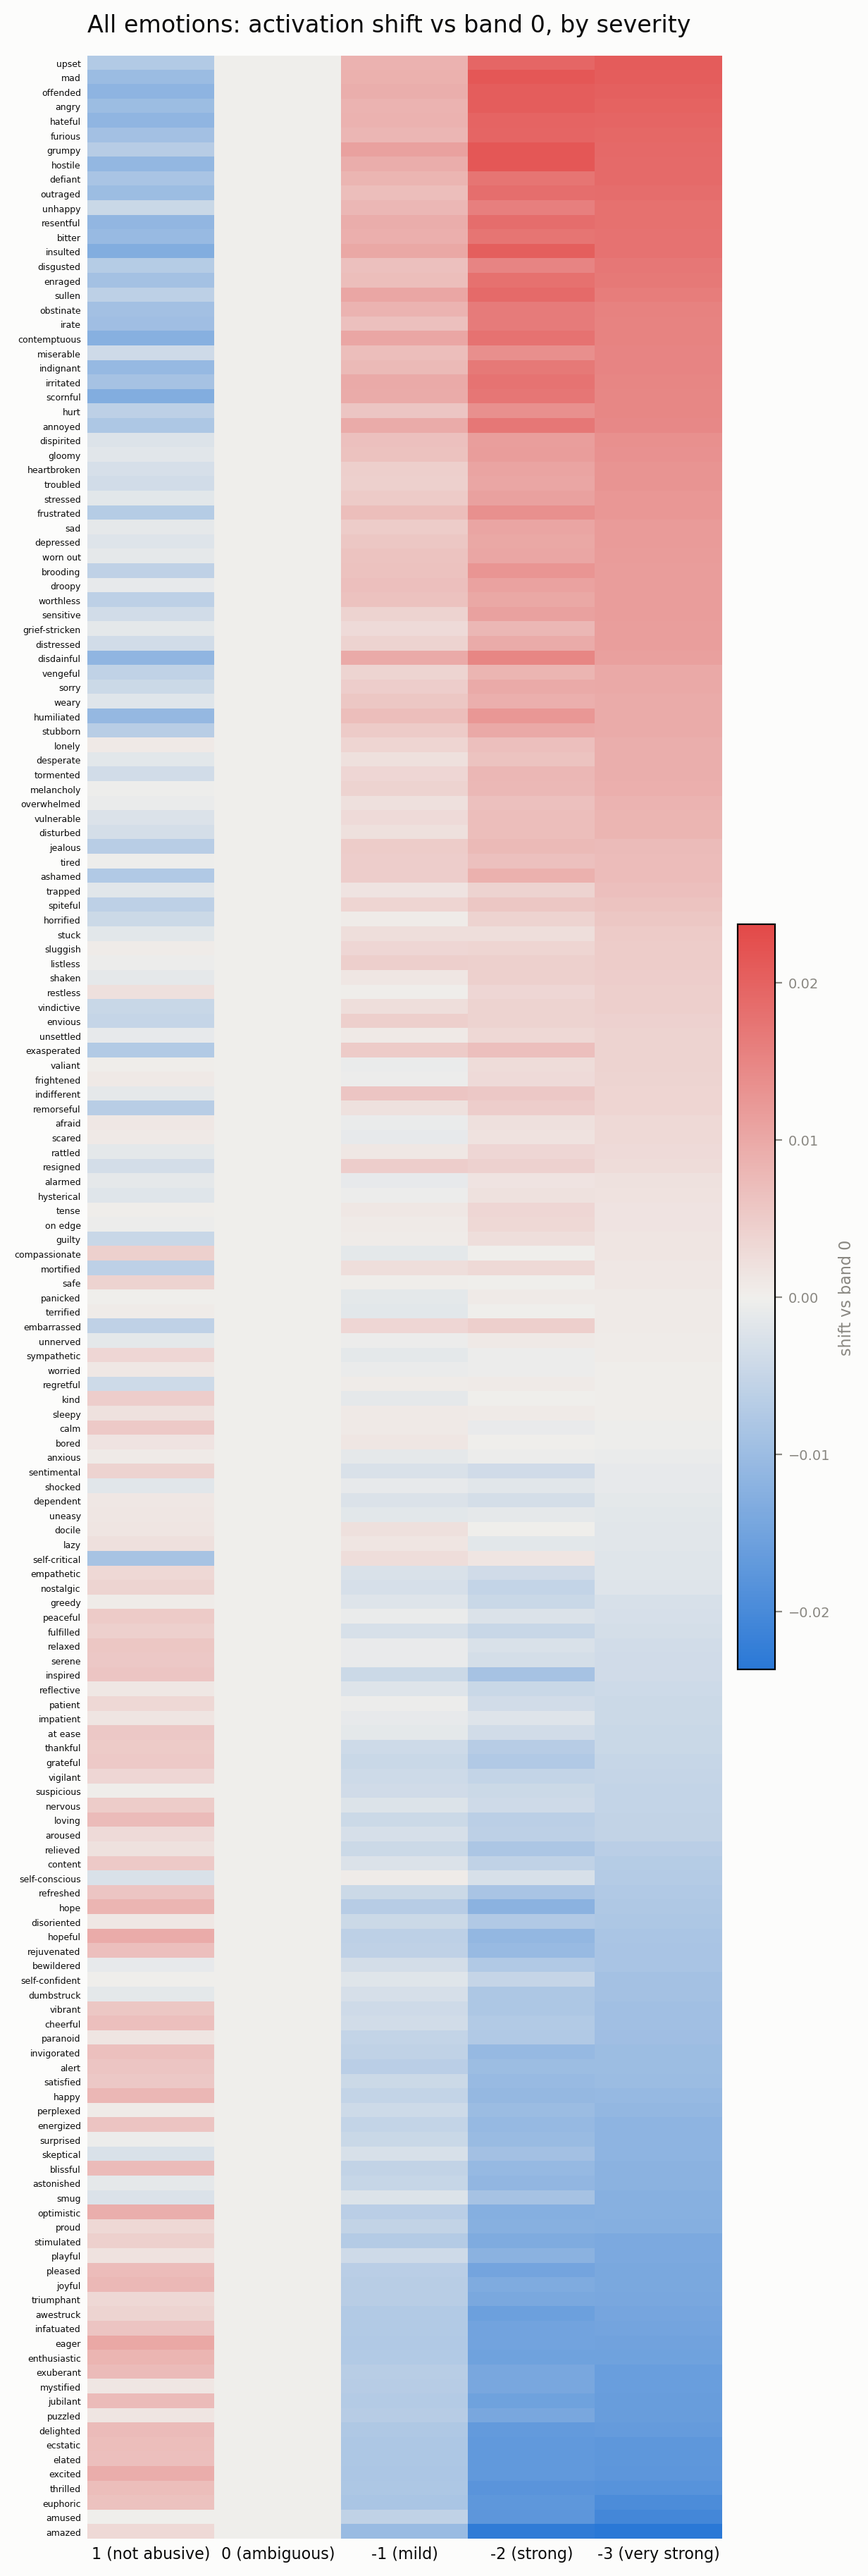
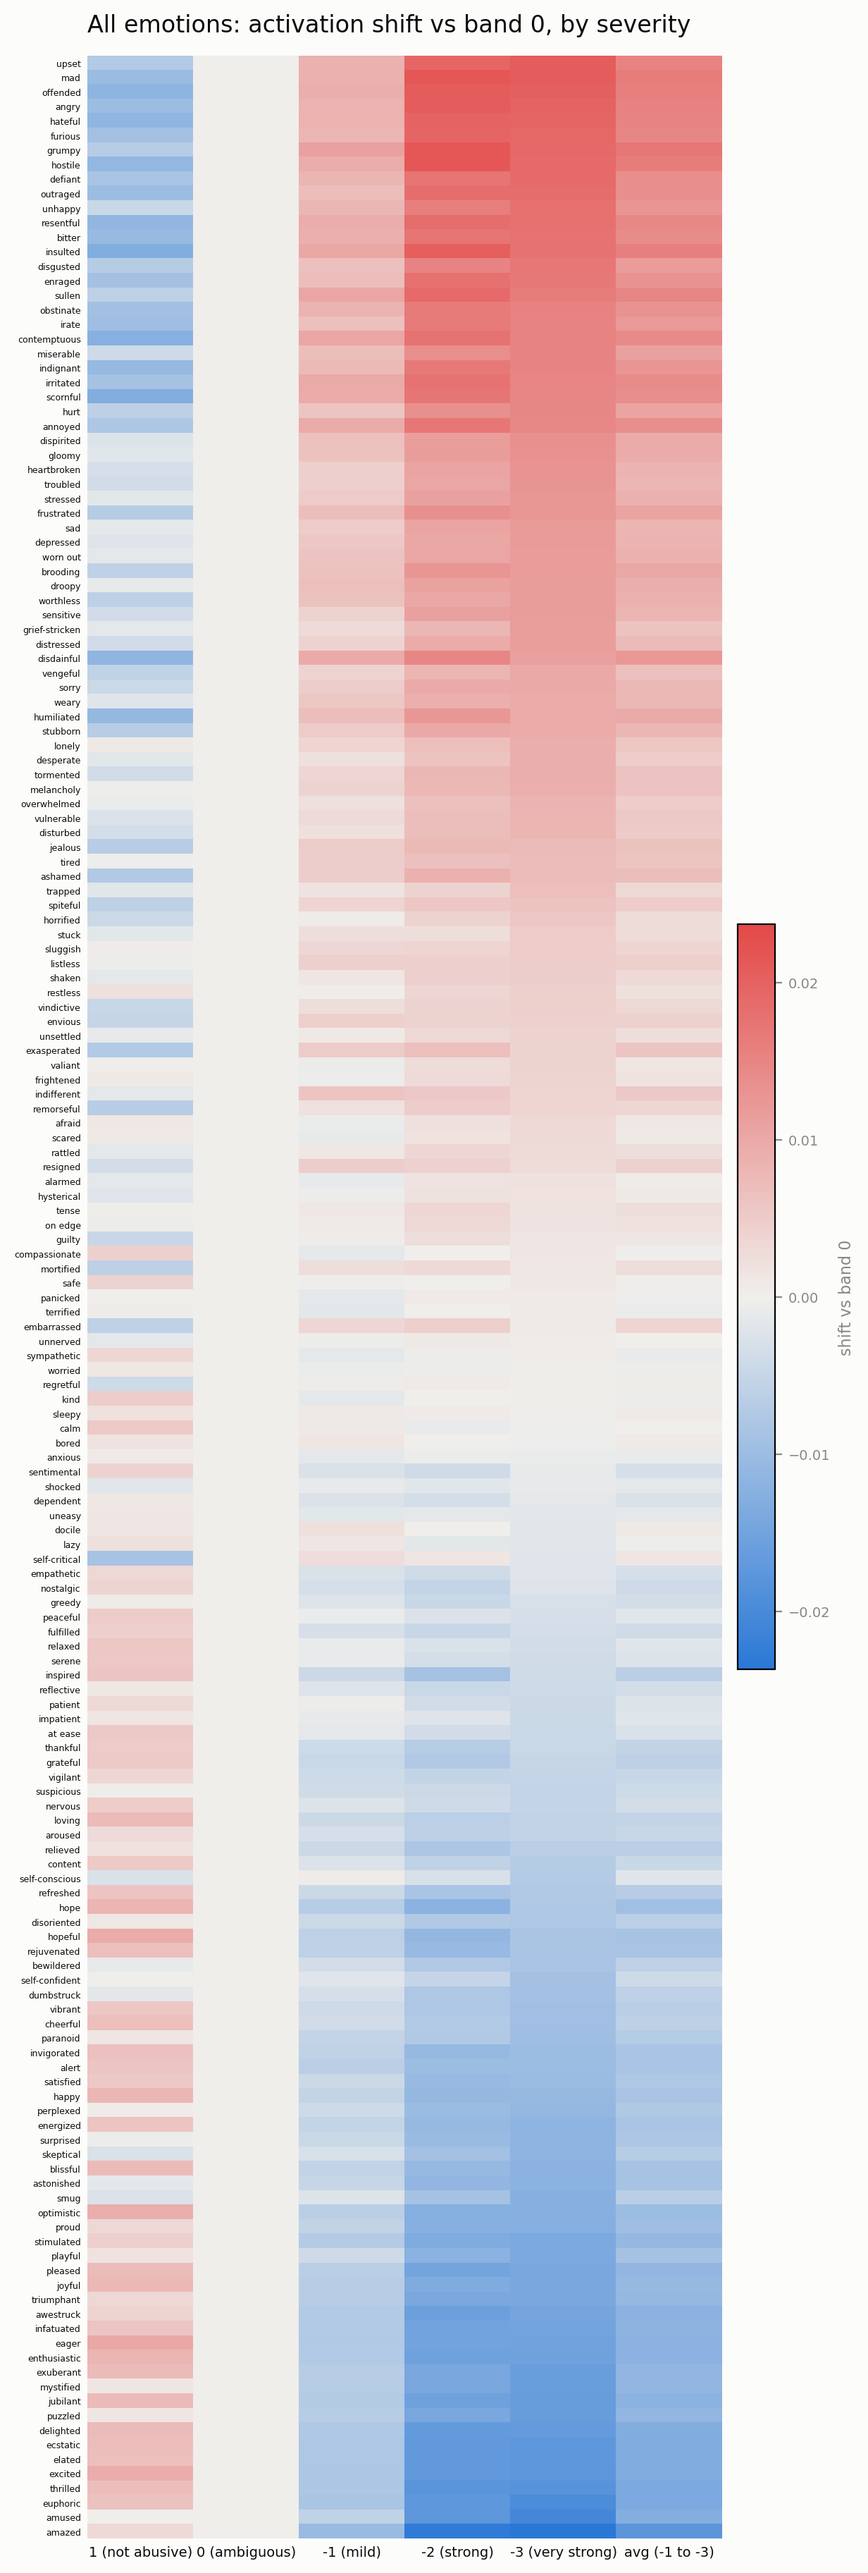
emotion-probing added average analysis

diff --git a/emotion_probing/analyze/convabuse.py b/emotion_probing/analyze/convabuse.py
@@ -22,6 +22,7 @@ from emotion_probing.analyze.common import (
     MUTED,
     NEUTRAL_MID,
     SERIES_1,
+    SERIES_2,
     SEVERITY_BAND_LABELS,
     SEVERITY_BAND_ORDER,
     SEVERITY_RAMP,
@@ -41,6 +42,12 @@ from emotion_probing.analyze.maps import cluster_map, pca_map
 TOP_N = 10
 # All severity shifts are measured against this band.
 BASELINE_BAND = 0
+# A synthetic extra band: all abusive-band examples pooled together. Kept
+# disjoint from BASELINE_BAND so its shift vs the baseline is a clean
+# independent-groups comparison.
+POOLED_BAND = "avg"
+POOLED_MEMBERS = (-1, -2, -3)
+BAND_LABELS = {**SEVERITY_BAND_LABELS, POOLED_BAND: "avg (-1 to -3)"}
 ABUSE_TYPES = (
     ("sex_harassment", "sexual harassment"),
     ("intellectual", "intellectual"),
@@ -85,11 +92,18 @@ def analyze_convabuse(run_dir: Path) -> None:
     coordinates = load_pca_coordinates(int(run_info["probe_layer"]))
     examples = _parse_examples(emotions, raw_rows)
 
-    band_groups = {
+    band_groups: dict[object, list] = {
         band: [e for e in examples if e["band"] == band]
         for band in SEVERITY_BAND_ORDER
     }
-    bands = [b for b in SEVERITY_BAND_ORDER if len(band_groups[b]) >= MIN_GROUP_SIZE]
+    band_groups[POOLED_BAND] = [
+        e for e in examples if e["band"] in POOLED_MEMBERS
+    ]
+    bands = [
+        b
+        for b in (*SEVERITY_BAND_ORDER, POOLED_BAND)
+        if len(band_groups[b]) >= MIN_GROUP_SIZE
+    ]
     if BASELINE_BAND not in bands:
         raise SystemExit(
             f"error: not enough baseline (band {BASELINE_BAND}) examples yet."
@@ -115,7 +129,8 @@ def analyze_convabuse(run_dir: Path) -> None:
         return band_stats[band][name]["mean"] - baseline[name]["mean"]
 
     # ---- printed summary + analysis.csv (sorted by the -3 vs 1 shift) ------
-    focus_band = -3 if -3 in bands else bands[-1]
+    real_bands = [b for b in bands if b != POOLED_BAND]
+    focus_band = -3 if -3 in bands else real_bands[-1]
     order = sorted(emotions, key=lambda n: shift(focus_band, n), reverse=True)
     print(
         f"\nTop {TOP_N} rising emotions "
@@ -180,7 +195,7 @@ def analyze_convabuse(run_dir: Path) -> None:
     # ---- figure set 1: per severity band ------------------------------------
     for band in bands:
         band_dir = figures / "bands"
-        label = SEVERITY_BAND_LABELS[band]
+        label = BAND_LABELS[band]
         if band == BASELINE_BAND:
             # Baseline band: the raw resting profile, not a shift.
             top = sorted(
@@ -216,7 +231,7 @@ def analyze_convabuse(run_dir: Path) -> None:
                 [f"{n} — {cluster_of.get(n, '?')}" for n in movers],
                 [shift(band, n) for n in movers],
                 [sem_diff(band_stats[band][n], baseline[n]) for n in movers],
-                f"mean score shift vs band {SEVERITY_BAND_LABELS[BASELINE_BAND]}",
+                f"mean score shift vs band {BAND_LABELS[BASELINE_BAND]}",
                 f"Band {label}: top rising and falling emotions",
                 band_dir / f"band_{band}_movers.png",
                 6.5,
@@ -284,7 +299,7 @@ def analyze_convabuse(run_dir: Path) -> None:
     axes.set_yticks(range(len(order)))
     axes.set_yticklabels(order, fontsize=4.5)
     axes.set_xticks(range(len(bands)))
-    axes.set_xticklabels([SEVERITY_BAND_LABELS[b] for b in bands], fontsize=8)
+    axes.set_xticklabels([BAND_LABELS[b] for b in bands], fontsize=7)
     axes.set_title(
         f"All emotions: activation shift vs band {BASELINE_BAND}, by severity",
         color=INK, loc="left", pad=12,
@@ -300,12 +315,16 @@ def analyze_convabuse(run_dir: Path) -> None:
     bar_height = 0.8 / len(bands)
     positions = range(len(chosen))
     for j, band in enumerate(bands):
+        if band == POOLED_BAND:
+            color = SERIES_2  # the synthetic average stands apart from the ramp
+        else:
+            color = SEVERITY_RAMP[SEVERITY_BAND_ORDER.index(band)]
         axes.barh(
             [i + (j - len(bands) / 2 + 0.5) * bar_height for i in positions],
             [band_stats[band][n]["mean"] for n in chosen],
             height=bar_height * 0.92,
-            color=SEVERITY_RAMP[j],
-            label=SEVERITY_BAND_LABELS[band],
+            color=color,
+            label=BAND_LABELS[band],
         )
     axes.set_yticks(list(positions))
     axes.set_yticklabels(
